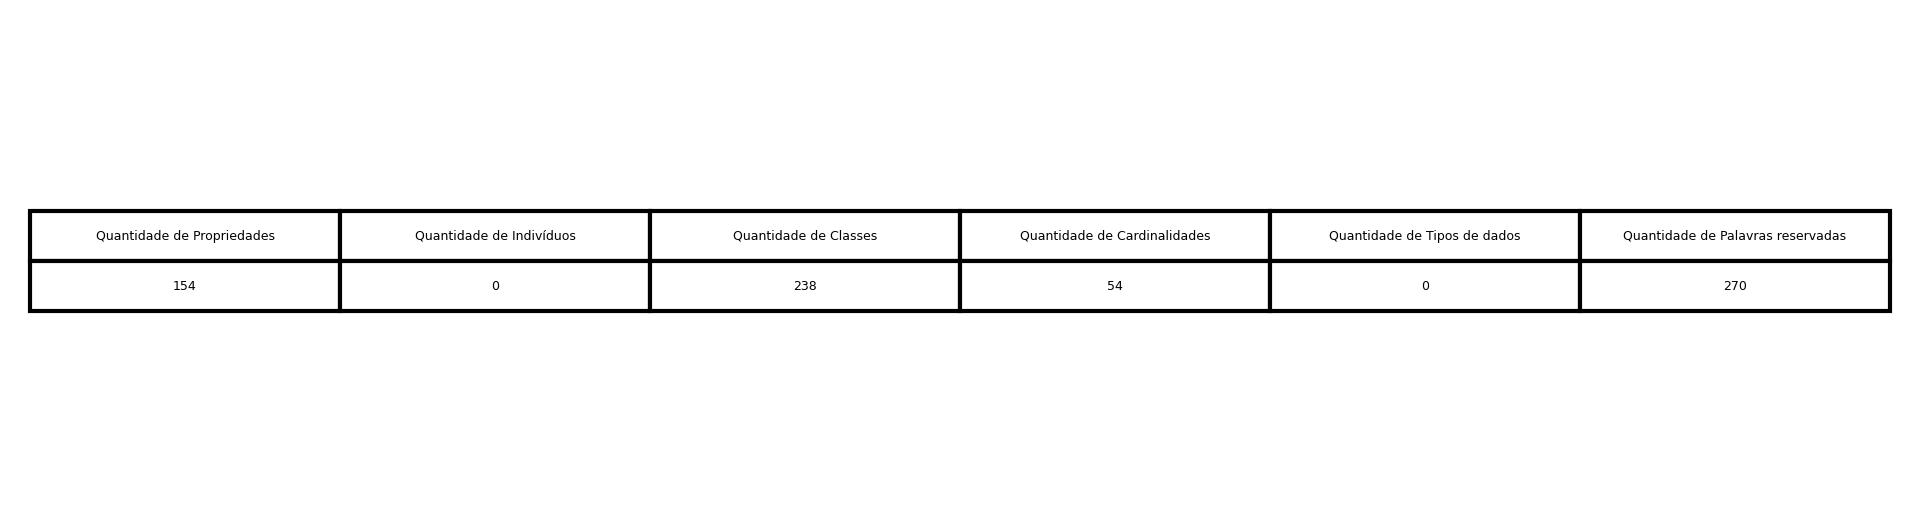
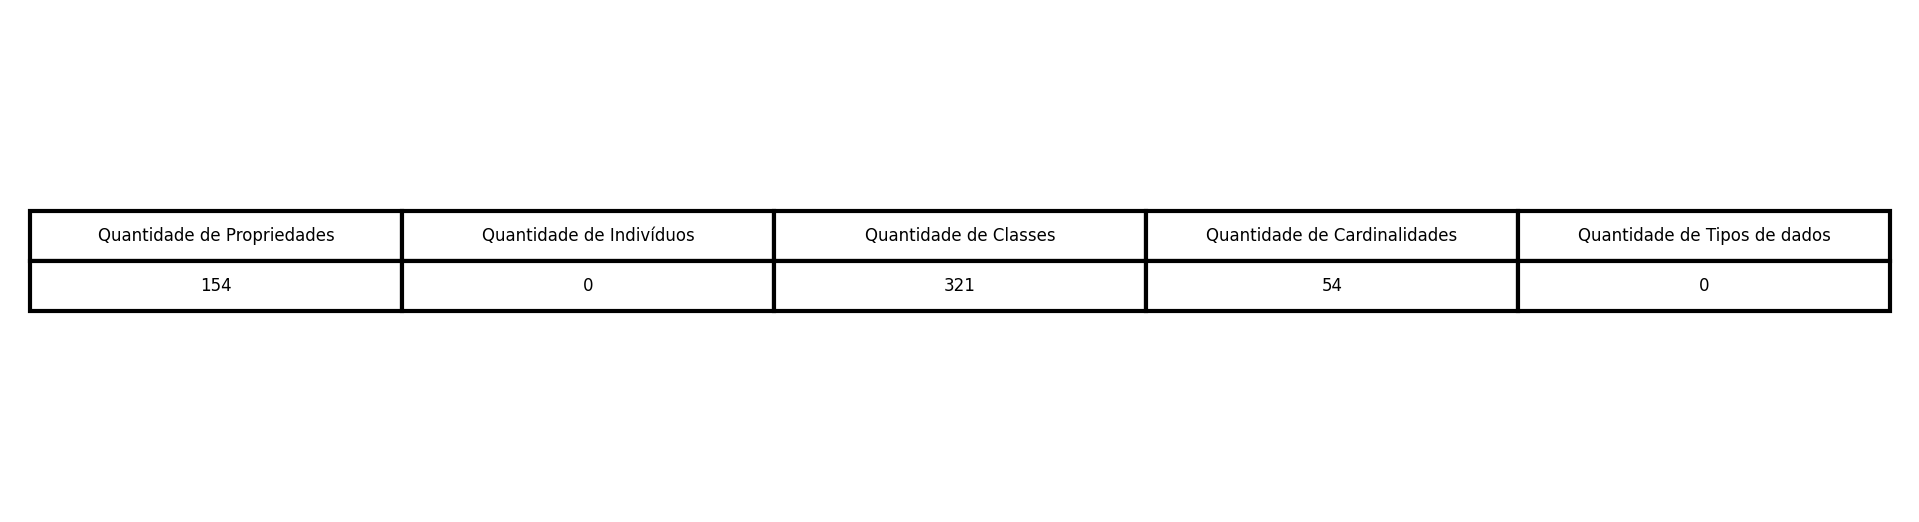
att

diff --git a/parsetab.py b/parsetab.py
@@ -6,9 +6,9 @@ _tabversion = '3.10'
 
 _lr_method = 'LALR'
 
-_lr_signature = 'ALL AND CARDINALITY CLASS COLON COMMA DATA_TYPE DISJOINTCLASSES EQ EQUIVALENTTO EXACTLY GT HAS ID INDIVIDUALS IS LBRACE LBRACKET LPAREN LT MAX MIN NOT OF ONLY OR PROPERTY RBRACE RBRACKET RESERVED RPAREN SOME SUBCLASSOF THAT VALUE\n    ontologia : descricao_classes descricao_individuals\n    \n    descricao_classes : CLASS COMMA ID equivalencia_classes descricao_classes\n                      | CLASS COMMA ID subclasso_classes descricao_classes\n                      | CLASS COMMA ID disjoint_classes descricao_classes\n                      | \n    \n    equivalencia_classes : EQUIVALENTTO COMMA expressao_classes COMMA\n                         | EQUIVALENTTO COMMA expressao_classes\n    \n    subclasso_classes : SUBCLASSOF COMMA expressao_classes propriedades COMMA\n                      | SUBCLASSOF COMMA expressao_classes propriedades\n                      | SUBCLASSOF COMMA expressao_classes COMMA\n                      | SUBCLASSOF COMMA expressao_classes\n    \n    disjoint_classes : DISJOINTCLASSES COMMA LPAREN ID COMMA ID COMMA ID RPAREN COMMA\n                     | DISJOINTCLASSES COMMA LPAREN ID COMMA ID COMMA ID RPAREN\n    \n    propriedades : PROPERTY expressao_classes COMMA\n                 | PROPERTY expressao_classes\n    \n    expressao_classes : ID\n                      | ID AND LPAREN expressao_classes COMMA expressao_classes RPAREN\n                      | ID AND LPAREN expressao_classes COMMA ID SOME ID RPAREN\n                      | ID AND LPAREN ID SOME ID RPAREN\n                      | ID AND LPAREN ID COMMA ID SOME ID RPAREN\n    \n    descricao_individuals : CLASS COMMA ID ID descricao_individuals\n                          | CLASS COMMA ID descricao_individuals\n                          | \n    '
+_lr_signature = 'ALL AND AT CARDINALITY CLASS COLON COMMA DATA_TYPE DISJOINTCLASSES EQ EQUIVALENTO EXACTLY GT HAS ID INDIVIDUALS IS LBRACE LBRACKET LPAREN LT MAX MIN NOT OF ONLY OR PROPERTY RBRACE RBRACKET RESERVED RPAREN SOME SUBCLASSOF THAT VALUE\n    ontologia : descricao_classes descricao_individuals\n    \n    descricao_classes : CLASS COLON ID subclasso_classes descricao_classes\n                      | CLASS COLON ID\n    \n    subclasso_classes : SUBCLASSOF COLON expressao_classes propriedades descricao_classes\n                      | SUBCLASSOF COLON expressao_classes propriedades\n                      | SUBCLASSOF COLON expressao_classes descricao_classes\n                      | SUBCLASSOF COLON expressao_classes\n                      | DISJOINTCLASSES COLON expressao_classes descricao_classes\n                      | DISJOINTCLASSES COLON expressao_classes\n                      | EQUIVALENTO COLON expressao_classes descricao_classes\n                      | EQUIVALENTO COLON expressao_classes\n                      | empty\n    \n    propriedades : expressao_classes descricao_classes propriedades\n                 | expressao_classes propriedades\n                 | empty\n    \n    descricao_individuals : INDIVIDUALS COLON ID COMMA ID descricao_individuals\n                          | INDIVIDUALS COLON ID\n                          | empty\n    \n    expressao_classes : ID\n                      | ID AND LPAREN expressao_classes COMMA expressao_classes RPAREN\n                      | ID AND LPAREN expressao_classes COMMA ID SOME ID RPAREN\n                      | ID AND LPAREN ID SOME ID RPAREN\n                      | ID AND LPAREN ID COMMA ID SOME ID RPAREN\n    \n    empty :\n    '
     
-_lr_action_items = {'CLASS':([0,2,9,10,11,12,16,18,19,20,25,26,27,29,31,32,36,37,41,52,55,56,59,60,61,],[3,5,5,3,3,3,5,-2,-3,-4,-7,-16,-11,-6,-10,-9,-8,-15,-14,-19,-17,-13,-12,-20,-18,]),'$end':([0,1,2,4,9,10,11,12,16,17,18,19,20,24,25,26,27,29,31,32,36,37,41,52,55,56,59,60,61,],[-5,0,-23,-1,-23,-5,-5,-5,-23,-22,-2,-3,-4,-21,-7,-16,-11,-6,-10,-9,-8,-15,-14,-19,-17,-13,-12,-20,-18,]),'COMMA':([3,5,13,14,15,25,26,27,32,34,37,39,40,41,42,52,55,56,60,61,],[6,7,21,22,23,29,-16,31,36,38,41,44,45,-14,46,-19,-17,59,-20,-18,]),'ID':([6,7,9,21,22,28,33,35,38,43,44,45,46,53,54,],[8,9,16,26,26,34,26,39,42,47,48,49,51,57,58,]),'EQUIVALENTTO':([8,],[13,]),'SUBCLASSOF':([8,],[14,]),'DISJOINTCLASSES':([8,],[15,]),'LPAREN':([23,30,],[28,35,]),'PROPERTY':([26,27,52,55,60,61,],[-16,33,-19,-17,-20,-18,]),'AND':([26,39,49,],[30,30,30,]),'SOME':([39,48,49,],[43,53,54,]),'RPAREN':([47,49,50,51,52,55,57,58,60,61,],[52,-16,55,56,-19,-17,60,61,-20,-18,]),}
+_lr_action_items = {'CLASS':([0,9,11,15,17,22,23,24,25,27,28,29,30,32,33,34,35,36,38,48,51,54,55,],[3,-3,3,-12,-2,3,-19,3,3,3,3,-6,-15,-8,-10,-24,-14,-4,-13,-22,-20,-23,-21,]),'$end':([1,2,4,6,9,10,17,21,26,],[0,-24,-1,-18,-3,-17,-2,-24,-16,]),'INDIVIDUALS':([2,9,17,21,],[5,-3,-2,5,]),'COLON':([3,5,12,13,14,],[7,8,18,19,20,]),'ID':([7,8,9,16,17,18,19,20,22,23,27,34,37,41,42,43,48,49,50,51,54,55,],[9,10,-3,21,-2,23,23,23,23,-19,23,23,39,44,45,46,-22,52,53,-20,-23,-21,]),'SUBCLASSOF':([9,],[12,]),'DISJOINTCLASSES':([9,],[13,]),'EQUIVALENTO':([9,],[14,]),'COMMA':([10,39,40,48,51,54,55,],[16,42,43,-22,-20,-23,-21,]),'AND':([23,39,46,],[31,31,31,]),'LPAREN':([31,],[37,]),'SOME':([39,45,46,],[41,49,50,]),'RPAREN':([44,46,47,48,51,52,53,54,55,],[48,-19,51,-22,-20,54,55,-23,-21,]),}
 
 _lr_action = {}
 for _k, _v in _lr_action_items.items():
@@ -17,7 +17,7 @@ for _k, _v in _lr_action_items.items():
       _lr_action[_x][_k] = _y
 del _lr_action_items
 
-_lr_goto_items = {'ontologia':([0,],[1,]),'descricao_classes':([0,10,11,12,],[2,18,19,20,]),'descricao_individuals':([2,9,16,],[4,17,24,]),'equivalencia_classes':([8,],[10,]),'subclasso_classes':([8,],[11,]),'disjoint_classes':([8,],[12,]),'expressao_classes':([21,22,33,35,45,],[25,27,37,40,50,]),'propriedades':([27,],[32,]),}
+_lr_goto_items = {'ontologia':([0,],[1,]),'descricao_classes':([0,11,22,24,25,27,28,],[2,17,29,32,33,34,36,]),'descricao_individuals':([2,21,],[4,26,]),'empty':([2,9,21,22,27,34,],[6,15,6,30,30,30,]),'subclasso_classes':([9,],[11,]),'expressao_classes':([18,19,20,22,27,34,37,43,],[22,24,25,27,27,27,40,47,]),'propriedades':([22,27,34,],[28,35,38,]),}
 
 _lr_goto = {}
 for _k, _v in _lr_goto_items.items():
@@ -27,27 +27,28 @@ for _k, _v in _lr_goto_items.items():
 del _lr_goto_items
 _lr_productions = [
   ("S' -> ontologia","S'",1,None,None,None),
-  ('ontologia -> descricao_classes descricao_individuals','ontologia',2,'p_ontologia','App.py',219),
-  ('descricao_classes -> CLASS COMMA ID equivalencia_classes descricao_classes','descricao_classes',5,'p_descricao_classes','App.py',224),
-  ('descricao_classes -> CLASS COMMA ID subclasso_classes descricao_classes','descricao_classes',5,'p_descricao_classes','App.py',225),
-  ('descricao_classes -> CLASS COMMA ID disjoint_classes descricao_classes','descricao_classes',5,'p_descricao_classes','App.py',226),
-  ('descricao_classes -> <empty>','descricao_classes',0,'p_descricao_classes','App.py',227),
-  ('equivalencia_classes -> EQUIVALENTTO COMMA expressao_classes COMMA','equivalencia_classes',4,'p_equivalencia_classes','App.py',234),
-  ('equivalencia_classes -> EQUIVALENTTO COMMA expressao_classes','equivalencia_classes',3,'p_equivalencia_classes','App.py',235),
-  ('subclasso_classes -> SUBCLASSOF COMMA expressao_classes propriedades COMMA','subclasso_classes',5,'p_subclasso_classes','App.py',242),
-  ('subclasso_classes -> SUBCLASSOF COMMA expressao_classes propriedades','subclasso_classes',4,'p_subclasso_classes','App.py',243),
-  ('subclasso_classes -> SUBCLASSOF COMMA expressao_classes COMMA','subclasso_classes',4,'p_subclasso_classes','App.py',244),
-  ('subclasso_classes -> SUBCLASSOF COMMA expressao_classes','subclasso_classes',3,'p_subclasso_classes','App.py',245),
-  ('disjoint_classes -> DISJOINTCLASSES COMMA LPAREN ID COMMA ID COMMA ID RPAREN COMMA','disjoint_classes',10,'p_disjoint_classes','App.py',252),
-  ('disjoint_classes -> DISJOINTCLASSES COMMA LPAREN ID COMMA ID COMMA ID RPAREN','disjoint_classes',9,'p_disjoint_classes','App.py',253),
-  ('propriedades -> PROPERTY expressao_classes COMMA','propriedades',3,'p_propriedades','App.py',260),
-  ('propriedades -> PROPERTY expressao_classes','propriedades',2,'p_propriedades','App.py',261),
-  ('expressao_classes -> ID','expressao_classes',1,'p_expressao_classes','App.py',268),
-  ('expressao_classes -> ID AND LPAREN expressao_classes COMMA expressao_classes RPAREN','expressao_classes',7,'p_expressao_classes','App.py',269),
-  ('expressao_classes -> ID AND LPAREN expressao_classes COMMA ID SOME ID RPAREN','expressao_classes',9,'p_expressao_classes','App.py',270),
-  ('expressao_classes -> ID AND LPAREN ID SOME ID RPAREN','expressao_classes',7,'p_expressao_classes','App.py',271),
-  ('expressao_classes -> ID AND LPAREN ID COMMA ID SOME ID RPAREN','expressao_classes',9,'p_expressao_classes','App.py',272),
-  ('descricao_individuals -> CLASS COMMA ID ID descricao_individuals','descricao_individuals',5,'p_descricao_individuals','App.py',277),
-  ('descricao_individuals -> CLASS COMMA ID descricao_individuals','descricao_individuals',4,'p_descricao_individuals','App.py',278),
-  ('descricao_individuals -> <empty>','descricao_individuals',0,'p_descricao_individuals','App.py',279),
+  ('ontologia -> descricao_classes descricao_individuals','ontologia',2,'p_ontologia','app.py',173),
+  ('descricao_classes -> CLASS COLON ID subclasso_classes descricao_classes','descricao_classes',5,'p_descricao_classes','app.py',178),
+  ('descricao_classes -> CLASS COLON ID','descricao_classes',3,'p_descricao_classes','app.py',179),
+  ('subclasso_classes -> SUBCLASSOF COLON expressao_classes propriedades descricao_classes','subclasso_classes',5,'p_subclasso_classes','app.py',184),
+  ('subclasso_classes -> SUBCLASSOF COLON expressao_classes propriedades','subclasso_classes',4,'p_subclasso_classes','app.py',185),
+  ('subclasso_classes -> SUBCLASSOF COLON expressao_classes descricao_classes','subclasso_classes',4,'p_subclasso_classes','app.py',186),
+  ('subclasso_classes -> SUBCLASSOF COLON expressao_classes','subclasso_classes',3,'p_subclasso_classes','app.py',187),
+  ('subclasso_classes -> DISJOINTCLASSES COLON expressao_classes descricao_classes','subclasso_classes',4,'p_subclasso_classes','app.py',188),
+  ('subclasso_classes -> DISJOINTCLASSES COLON expressao_classes','subclasso_classes',3,'p_subclasso_classes','app.py',189),
+  ('subclasso_classes -> EQUIVALENTO COLON expressao_classes descricao_classes','subclasso_classes',4,'p_subclasso_classes','app.py',190),
+  ('subclasso_classes -> EQUIVALENTO COLON expressao_classes','subclasso_classes',3,'p_subclasso_classes','app.py',191),
+  ('subclasso_classes -> empty','subclasso_classes',1,'p_subclasso_classes','app.py',192),
+  ('propriedades -> expressao_classes descricao_classes propriedades','propriedades',3,'p_properties','app.py',197),
+  ('propriedades -> expressao_classes propriedades','propriedades',2,'p_properties','app.py',198),
+  ('propriedades -> empty','propriedades',1,'p_properties','app.py',199),
+  ('descricao_individuals -> INDIVIDUALS COLON ID COMMA ID descricao_individuals','descricao_individuals',6,'p_descricao_individuals','app.py',206),
+  ('descricao_individuals -> INDIVIDUALS COLON ID','descricao_individuals',3,'p_descricao_individuals','app.py',207),
+  ('descricao_individuals -> empty','descricao_individuals',1,'p_descricao_individuals','app.py',208),
+  ('expressao_classes -> ID','expressao_classes',1,'p_expressao_classes','app.py',214),
+  ('expressao_classes -> ID AND LPAREN expressao_classes COMMA expressao_classes RPAREN','expressao_classes',7,'p_expressao_classes','app.py',215),
+  ('expressao_classes -> ID AND LPAREN expressao_classes COMMA ID SOME ID RPAREN','expressao_classes',9,'p_expressao_classes','app.py',216),
+  ('expressao_classes -> ID AND LPAREN ID SOME ID RPAREN','expressao_classes',7,'p_expressao_classes','app.py',217),
+  ('expressao_classes -> ID AND LPAREN ID COMMA ID SOME ID RPAREN','expressao_classes',9,'p_expressao_classes','app.py',218),
+  ('empty -> <empty>','empty',0,'p_empty','app.py',229),
 ]

diff --git a/App.py b/App.py
@@ -7,7 +7,7 @@ import matplotlib.pyplot as plt
 # Alunos: Vítor Duarte e Ricardo Júnior
 
 # Lendo o arquivo no diretório do projeto, contendo o exemplo a ser analisado.
-PATH = 'dados2.txt'
+PATH = 'dados.txt'
 
 try:
     with open(PATH, 'r') as arquivo:
@@ -31,7 +31,7 @@ reserved = {
     'or': 'OR',
     'only': 'ONLY',
     'class': 'CLASS',
-    'equivalento': 'EQUIVALENTTO',
+    'equivalentto': 'EQUIVALENTO',
     'individuals': 'INDIVIDUALS',
     'subclassof': 'SUBCLASSOF',
     'disjointclasses': 'DISJOINTCLASSES'
@@ -60,24 +60,24 @@ tokens = [
     'AT'
 ] + list(reserved.values())
 
-t_SOME = r'SOME'
-t_ALL = r'ALL'
-t_VALUE = r'VALUE'
-t_MIN = r'MIN'
-t_MAX = r'MAX'
-t_EXACTLY = r'EXACTLY'
-t_THAT = r'THAT'
-t_NOT = r'NOT'
-t_AND = r'AND'
-t_OR = r'OR'
-t_CLASS = r'Class'
-t_EQUIVALENTTO = r'EquivalentTo'
-t_INDIVIDUALS = r'Individuals'
-t_SUBCLASSOF = r'SubClassOf'
-t_DISJOINTCLASSES = r'DisjointClasses'
+t_SOME = r'some'
+t_ALL = r'all'
+t_VALUE = r'value'
+t_MIN = r'min'
+t_MAX = r'max'
+t_EXACTLY = r'exactly'
+t_THAT = r'that'
+t_NOT = r'not'
+t_AND = r'and'
+t_OR = r'or'
+t_CLASS = r'class'
+t_EQUIVALENTO = r'equivalentto'
+t_INDIVIDUALS = r'individuals'
+t_SUBCLASSOF = r'subclassof'
+t_DISJOINTCLASSES = r'disjointclasses'
 t_HAS = r'has'
 t_IS = r'is'
-t_OF = r'Of'
+t_OF = r'of'
 t_ONLY = r'only'
 t_LPAREN = r'\('
 t_RPAREN = r'\)'
@@ -94,8 +94,8 @@ t_AT = r','
 
 # Abaixo estão as funções para reconhecer cada token ou palavra reservada da linguagem, contendo as expressões regulares para reconhecer as cadeias.
 def t_RESERVED(t):
-    r'(Class:|Individuals:|EquivalentTo:|SubClassOf:|DisjointClasses:|some|all|and|value|min|max|exactly|only|that|not)'
-    t.type = 'RESERVED'
+    r'(individuals|subclassof|disjointclasses|some|all|and|value|min|max|exactly|only|that|not)'
+    t.type = reserved.get(t.value, 'RESERVED')  # Usando o dicionário de palavras reservadas
     return t
 
 def t_DATA_TYPE(t):
@@ -130,7 +130,7 @@ def t_newline(t):
     t.lexer.lineno += len(t.value)
 
 def t_error(t):
-    print(f"Caractere ilegal: {t.value[0]}")
+    print(f"Erro léxico: Caractere ilegal '{t.value[0]}' na linha {t.lineno}, posição {t.lexpos}")
     t.lexer.skip(1)
 
 # Inicialização do analisador léxico
@@ -141,11 +141,8 @@ lexer.input(file)
 # Declaração de variáveis para contar as ocorrências dos tokens e demais coisas
 found_tokens = []
 property_count = 0
-individual_count = 0
-cardinalidade_count = 0
-data_type_count = 0
 classes_count = 0
-reserved_count = 0
+primitive_classes_count = 0
 
 # Função principal
 while True:
@@ -155,65 +152,16 @@ while True:
     found_tokens.append((tok.lineno, tok.type, tok.value))
     if tok.type == 'PROPERTY':
         property_count += 1
-    elif tok.type == 'INDIVIDUALS':
-        individual_count += 1
-    elif tok.type == 'CARDINALITY':
-        cardinalidade_count += 1
-    elif tok.type == 'DATA_TYPE':
-        data_type_count += 1
-    elif tok.type == 'RESERVED':
-        reserved_count += 1
     elif tok.type == 'CLASS':
         classes_count += 1
+        if tok.value.islower():
+            primitive_classes_count += 1
 
-# Em seguida está o resumo da análise, assim como o valor de cada lexema por linha
-for lineno, token_type, token_value in found_tokens:
-    print(f'Linha {lineno}: Token: {token_type}, Valor: {token_value}')
-
+# Em seguida está o resumo da análise
 print(f"######################################## Resumo #########################################")
 print(f"#                           Quantidade de Propriedades: {property_count}\t\t\t\t#")
-print(f"#                           Quantidade de Indivíduos: {individual_count}\t\t\t\t#")
 print(f"#                           Quantidade de Classes: {classes_count}\t\t\t\t\t#")
-print(f"#                           Quantidade de Cardinalidades: {cardinalidade_count}\t\t\t\t#")
-print(f"#                           Quantidade de Tipos de dados: {data_type_count}\t\t\t\t#")
-print(f"#                           Quantidade de Palavras reservadas: {reserved_count}\t\t\t#")
 print(f"#########################################################################################")
-
-# Dados do resumo
-data = {
-    "Quantidade de Propriedades": [property_count],
-    "Quantidade de Indivíduos": [individual_count],
-    "Quantidade de Classes": [classes_count],
-    "Quantidade de Cardinalidades": [cardinalidade_count],
-    "Quantidade de Tipos de dados": [data_type_count],
-    "Quantidade de Palavras reservadas": [reserved_count]
-}
-
-# Criar um DataFrame (Para imagem)
-df = pd.DataFrame(data)
-
-# Criar uma tabela
-fig, ax = plt.subplots(figsize=(8, 2))  
-ax.axis('off')
-table = ax.table(cellText=df.values,
-                 colLabels=df.columns,
-                 cellLoc='center',
-                 loc='center')
-
-# Salvar como PNG 
-plt.savefig('resumo_tabela.png', bbox_inches='tight', dpi=300)
-
-# Declaração de variáveis para contar as ocorrências dos tokens e demais coisas
-found_tokens = []
-property_count = 0
-individual_count = 0
-cardinality_count = 0
-data_type_count = 0
-reserved_count = 0
-disjoint_classes_count = 0
-equivalent_classes_count = 0
-subclass_count = 0
-individual_classes_count = 0
 
 # Regras de produção sintáticas
 def p_ontologia(p):
@@ -223,47 +171,39 @@ def p_ontologia(p):
 
 def p_descricao_classes(p):
     '''
-    descricao_classes : CLASS COMMA ID equivalencia_classes descricao_classes
-                      | CLASS COMMA ID subclasso_classes descricao_classes
-                      | CLASS COMMA ID disjoint_classes descricao_classes
-                      | 
+    descricao_classes : CLASS COLON ID subclasso_classes descricao_classes
+                      | CLASS COLON ID
     '''
-    global classes_count
-    classes_count += 1
-
-def p_equivalencia_classes(p):
-    '''
-    equivalencia_classes : EQUIVALENTTO COMMA expressao_classes
-                         |
-    '''
-    global equivalent_classes_count
-    equivalent_classes_count += 1
 
 def p_subclasso_classes(p):
     '''
-    subclasso_classes : SUBCLASSOF COMMA expressao_classes propriedades COMMA
-                      | SUBCLASSOF COMMA expressao_classes propriedades
-                      | SUBCLASSOF COMMA expressao_classes COMMA
-                      | SUBCLASSOF COMMA expressao_classes
+    subclasso_classes : SUBCLASSOF COLON expressao_classes propriedades descricao_classes
+                      | SUBCLASSOF COLON expressao_classes propriedades
+                      | SUBCLASSOF COLON expressao_classes descricao_classes
+                      | SUBCLASSOF COLON expressao_classes
+                      | DISJOINTCLASSES COLON expressao_classes descricao_classes
+                      | DISJOINTCLASSES COLON expressao_classes
+                      | EQUIVALENTO COLON expressao_classes descricao_classes
+                      | EQUIVALENTO COLON expressao_classes
+                      | empty
     '''
-    global subclass_count
-    subclass_count += 1
 
-def p_disjoint_classes(p):
+def p_properties(p):
     '''
-    disjoint_classes : DISJOINTCLASSES COMMA LPAREN ID COMMA ID COMMA ID RPAREN COMMA
-                     | DISJOINTCLASSES COMMA LPAREN ID COMMA ID COMMA ID RPAREN
-    '''
-    global disjoint_classes_count
-    disjoint_classes_count += 1
-
-def p_propriedades(p):
-    '''
-    propriedades : PROPERTY expressao_classes COMMA
-                 | PROPERTY expressao_classes
+    propriedades : expressao_classes descricao_classes propriedades
+                 | expressao_classes propriedades
+                 | empty
     '''
     global property_count
     property_count += 1
+
+def p_descricao_individuals(p):
+    '''
+    descricao_individuals : INDIVIDUALS COLON ID COMMA ID descricao_individuals
+                          | INDIVIDUALS COLON ID
+                          | empty
+    '''
+    pass
 
 def p_expressao_classes(p):
     '''
@@ -272,31 +212,23 @@ def p_expressao_classes(p):
                       | ID AND LPAREN expressao_classes COMMA ID SOME ID RPAREN
                       | ID AND LPAREN ID SOME ID RPAREN
                       | ID AND LPAREN ID COMMA ID SOME ID RPAREN
-                      |
     '''
-
-def p_descricao_individuals(p):
-    '''
-    descricao_individuals : CLASS COMMA ID ID descricao_individuals
-                          | CLASS COMMA ID descricao_individuals
-                          | 
-    '''
-    global individual_classes_count
-    individual_classes_count += 1
 
 def p_error(p):
-    print("Erro de sintaxe:", p)
+    if p:
+        print(f"Erro sintático: Erro de sintaxe em '{p.value}' na linha {p.lineno}, posição {p.lexpos}")
+        print(f"Trecho do código: {file.splitlines()[p.lineno - 1]}")
+    else:
+        print("Erro sintático: Fim inesperado do arquivo")
+
+def p_empty(p):
+    '''
+    empty :
+    '''
+    pass
 
 # Construção do analisador Sintático
 parser = yacc.yacc()
 
 # Analisa os dados utilizando o parser
 parser.parse(file)
-
-# Resumo da Análise Sintática
-print("==================================== Resumo da Análise Sintática ====================================")
-print(f"#                           Quantidade de Disjunções de Classes: {disjoint_classes_count}\t\t\t#")
-print(f"#                           Quantidade de Equivalências de Classes: {equivalent_classes_count}\t\t\t#")
-print(f"#                           Quantidade de Subclasses: {subclass_count}\t\t\t\t#")
-print(f"#                           Quantidade de Classes Individuais: {individual_classes_count}\t\t\t#")
-print("=======================================================================================================")
